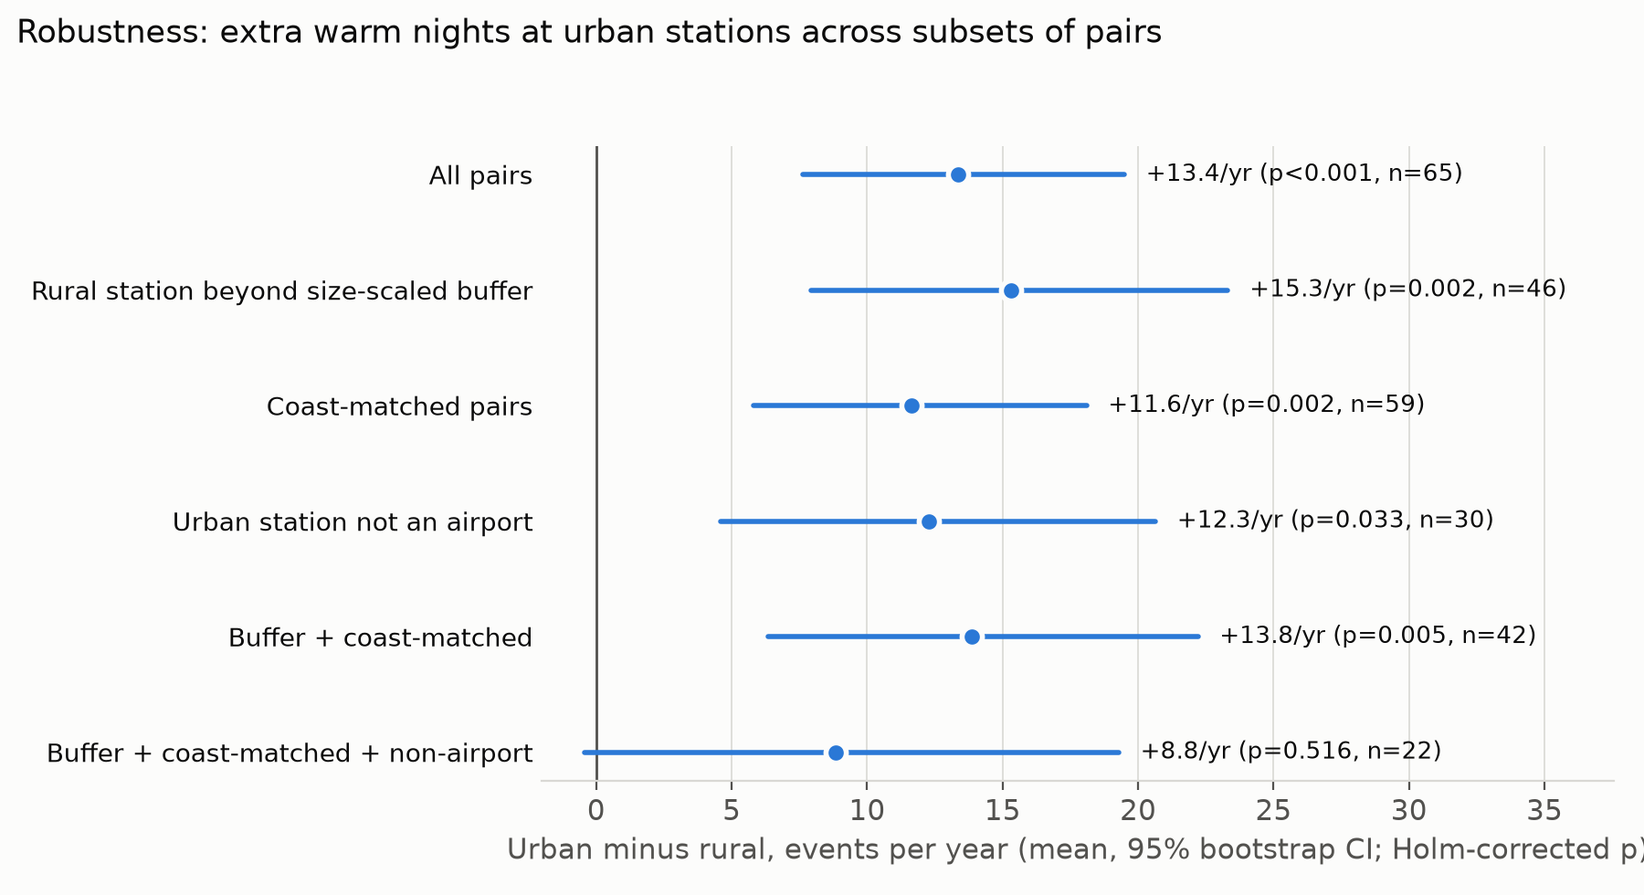
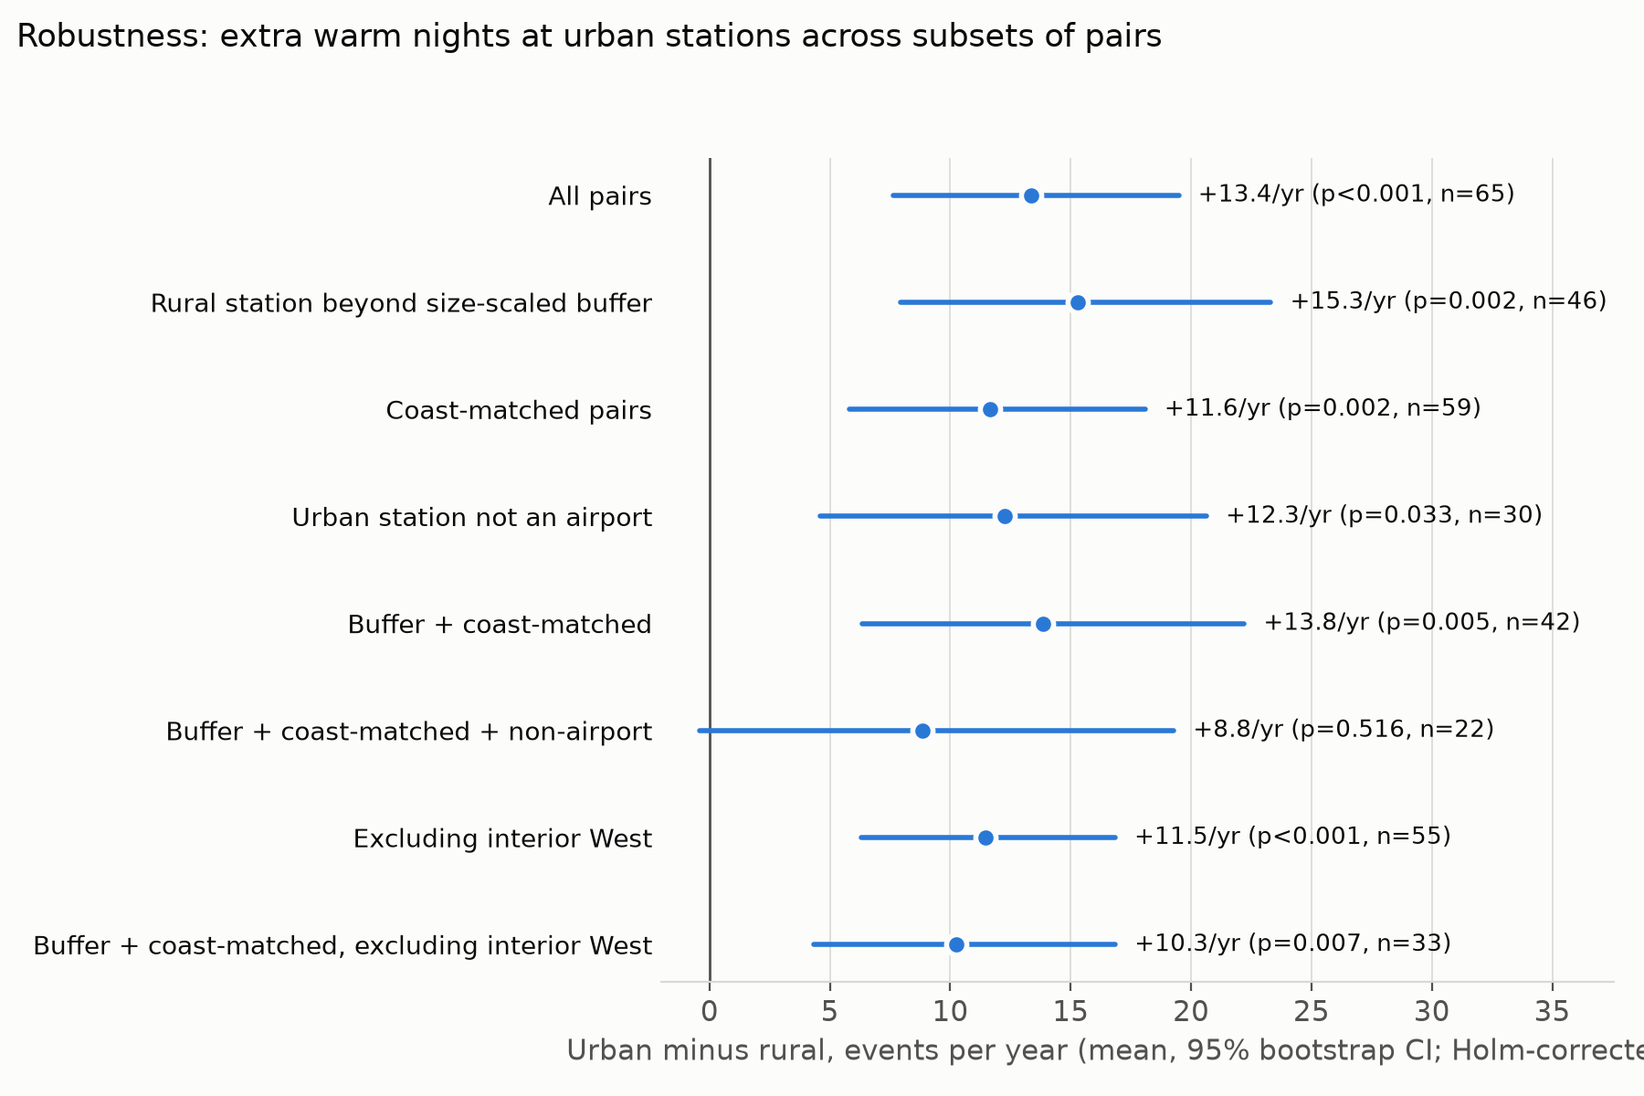
[agent] Add interior-West terrain sensitivity check

diff --git a/ewu/report.py b/ewu/report.py
@@ -10,7 +10,8 @@ import pandas as pd
 ALPHA = 0.05
 LABEL = {"hot_days": "hot days", "warm_nights": "warm nights", "heavy_rain_days": "heavy-rain days", "cold_nights": "cold nights"}
 SUBSETS = ["All pairs", "Rural station beyond size-scaled buffer", "Coast-matched pairs", "Urban station not an airport",
-           "Buffer + coast-matched", "Buffer + coast-matched + non-airport"]
+           "Excluding interior West", "Buffer + coast-matched", "Buffer + coast-matched, excluding interior West",
+           "Buffer + coast-matched + non-airport"]
 
 
 def p_text(p: float) -> str:
@@ -38,7 +39,7 @@ def effect_sentence(r, what: str) -> str:
 
 
 def build(overall: pd.DataFrame, tests: pd.DataFrame, influence: pd.DataFrame, ranking: pd.DataFrame,
-          pairs: pd.DataFrame, meta: dict, top_n: int = 10) -> str:
+          pairs: pd.DataFrame, meta: dict, top_n: int = 10, ranking_no_west: pd.DataFrame | None = None) -> str:
     o = overall.set_index("index")
     t = tests.set_index(["subset", "index"])
     inf = influence.set_index("index")
@@ -68,6 +69,14 @@ def build(overall: pd.DataFrame, tests: pd.DataFrame, influence: pd.DataFrame, r
         f"station's distance from the city (Spearman ρ = {signed(rho, 2)}, {p_text(p_inf)}), so there is "
         f"{'evidence' if contaminated else 'no evidence'} that cities warm their rural partners enough to bias the comparison. "
         f"{n_buf} of {n_pairs} pairs pass the size-scaled buffer.")
+    iw = sub("Excluding interior West", rk)
+    n_iw = int(pairs["interior_west"].sum()) if "interior_west" in pairs else 0
+    if iw is not None and n_iw:
+        findings.append(
+            f"- **Terrain sensitivity.** Excluding the {n_iw} interior-West pairs (mountain and basin terrain, where valley sites "
+            f"pool cold air at night), the effect on {LABEL[rk]} is {signed(iw.mean_diff)}/yr (95% CI {signed(iw.ci_low)} to "
+            f"{signed(iw.ci_high)}; Holm {p_text(iw.holm_p)}; n = {int(iw.n_pairs)}), so the result "
+            f"{'does not depend' if iw.holm_p < ALPHA and iw.mean_diff > 0 else 'depends'} on those pairs.")
     rob = [s for s in SUBSETS[1:] if sub(s, rk) is not None and sub(s, rk).holm_p < ALPHA]
     fail = [s for s in SUBSETS[1:] if sub(s, rk) is not None and sub(s, rk).holm_p >= ALPHA]
     line = f"- **Robustness.** The effect on {LABEL[rk]} stays significant in {len(rob)} of {len(rob) + len(fail)} robustness subsets"
@@ -107,8 +116,21 @@ def build(overall: pd.DataFrame, tests: pd.DataFrame, influence: pd.DataFrame, r
                                            for m, a, b in zip(top["mean_diff"], top["ci_low"], top["ci_high"])],
         "Airport urban station": top["urban_airport"].map({True: "yes", False: "no"}),
     })
-    west = top.merge(pairs[["urban_area", "urban_lon"]], on="urban_area")
-    n_west = int((west.head(5)["urban_lon"] < -104).sum())
+    n_west = int(ranking.head(5)["interior_west"].sum()) if "interior_west" in ranking else 0
+    alt = ""
+    if ranking_no_west is not None and len(ranking_no_west):
+        t4 = ranking_no_west.head(top_n)
+        t4 = pd.DataFrame({
+            "Rank": t4["rank"], "Urban area": t4["urban_area"], "Size": t4["size_group"],
+            f"Extra {LABEL[rk]}/yr (95% CI)": [f"{signed(m, 0)} ({signed(a, 0)} to {signed(b, 0)})"
+                                               for m, a, b in zip(t4["mean_diff"], t4["ci_low"], t4["ci_high"])],
+            "Airport urban station": t4["urban_airport"].map({True: "yes", False: "no"}),
+        })
+        alt = f"""
+**The same ranking without the interior West** (a terrain sensitivity check):
+
+{md_table(t4, "rllrl")}
+"""
 
     # --- page -------------------------------------------------------------------------------------
     return f"""# Results: does urbanization change how often places experience extreme weather?
@@ -155,7 +177,8 @@ A size-scaled buffer (rural station at least max(10 km, half the city's effectiv
 ![Robustness of the {LABEL[rk]} effect across subsets](figures/robustness_{rk}.png)
 
 *Coast-matched: excludes pairs where exactly one station is within {meta['coast_near_km']:.0f} km of the ocean.
-Non-airport: urban station is not at an airport.*
+Non-airport: urban station is not at an airport. Interior West: west of 104°W with no ocean within 100 km of either
+station (mountain and basin terrain).*
 
 ## 5. Where does urbanization add the most {LABEL[rk]}?
 
@@ -167,8 +190,10 @@ Ranking of the {len(ranking)} pairs that pass the buffer and are coast-matched, 
 {md_table(t3, "rllrl")}
 
 **Read with care.** Each row is one pair of stations, so a ranking reflects that pair's specific sites as well as the city.
-{n_west} of the top 5 are in the mountain West, where cold air pooling in valleys at rural sites can widen night-time gaps;
-terrain is not modelled. This ranks where urbanization adds the most {LABEL[rk]} today in this sample; it is not a forecast.
+{n_west} of the top 5 are in the interior West (west of 104°W, more than 100 km from the ocean), where cold air pooling in
+valleys at rural sites can widen night-time gaps. Terrain is not modelled directly, so the ranking is repeated without
+those pairs below. This ranks where urbanization adds the most {LABEL[rk]} today in this sample; it is not a forecast.
+{alt}
 
 ## Methods in brief
 
@@ -181,7 +206,9 @@ terrain is not modelled. This ranks where urbanization adds the most {LABEL[rk]}
 ## Limitations
 
 - Many urban stations are at airports; the hot-day signal depends heavily on them.
-- Terrain (valleys, cold-air pooling) is not modelled; the coast flag uses the ocean only (Great Lakes not flagged).
+- Terrain (valleys, cold-air pooling) is not modelled directly; it is tested only by excluding interior-West pairs.
+  A topographic position index from a digital elevation model would be the next step. The coast flag uses the ocean
+  only (Great Lakes not flagged).
 - {n_pairs} pairs is a sample, not every U.S. city; the strictest robustness subset is small.
 - Ten years is too short to estimate trends: results describe {meta['years']}, not the future.
 

diff --git a/ewu/cli.py b/ewu/cli.py
@@ -28,10 +28,14 @@ DEFAULTS = {
     "hot_pct": 90, "warm_pct": 90, "cold_pct": 10, "heavy_rain_pct": 95, "wet_day_mm": 1.0,
     "seed": 703, "n_boot": 10_000,
     "buffer_min_km": 10.0, "buffer_radius_fraction": 0.5, "coast_near_km": 25.0, "rank_index": "warm_nights", "top_n": 10,
+    "interior_west_lon": -104.0, "interior_west_inland_km": 100.0,
     "pairs": "config/final_pairs.csv", "raw_dir": "data/raw", "reference_dir": "data/reference",
     "manifest": "data_manifest.csv", "results_dir": "results", "docs_dir": "docs",
 }
 PATH_KEYS = ("pairs", "raw_dir", "reference_dir", "manifest", "results_dir", "docs_dir")
+
+
+COAST_SEARCH_KM = 100.0
 
 
 class ConfigError(ValueError):
@@ -94,6 +98,8 @@ def validate(s: dict, stage: str) -> None:
         raise ConfigError(f"rank_index must be one of {list(core.INDICES)}; got {s['rank_index']!r}")
     if s["buffer_min_km"] < 0 or not 0 <= s["buffer_radius_fraction"] <= 5:
         raise ConfigError("buffer_min_km must be >= 0 and buffer_radius_fraction between 0 and 5")
+    if not 0 < s["interior_west_inland_km"] <= COAST_SEARCH_KM:
+        raise ConfigError(f"interior_west_inland_km must be in (0, {COAST_SEARCH_KM:.0f}]")
     if not Path(s["pairs"]).exists():
         raise ConfigError(f"pairs file not found: {s['pairs']}")
 
@@ -153,7 +159,7 @@ def add_site_flags(pair_summary: pd.DataFrame, s: dict) -> pd.DataFrame:
     meta = io.read_station_metadata(ref / "ghcnd-stations.txt", stations)
     areas = io.read_urban_areas(ref / "tl_2020_us_uac20.zip")
     tree = STRtree([a["geom"] for a in areas])
-    coast = {sid: geo.coast_distance_km(m["lat"], m["lon"], globe.is_land) for sid, m in meta.items()}
+    coast = {sid: geo.coast_distance_km(m["lat"], m["lon"], globe.is_land, max_km=COAST_SEARCH_KM) for sid, m in meta.items()}
 
     rows = []
     for p in pair_summary.itertuples():
@@ -175,6 +181,9 @@ def add_site_flags(pair_summary: pd.DataFrame, s: dict) -> pd.DataFrame:
             "urban_coast_km": coast[p.urban_station], "rural_coast_km": coast[p.rural_station],
             "coastal_mismatch": geo.coastal_mismatch(coast[p.urban_station], coast[p.rural_station], s["coast_near_km"]),
             "urban_airport": geo.is_airport(p.urban_station, u["name"]), "rural_airport": geo.is_airport(p.rural_station, r["name"]),
+            "interior_west": geo.is_interior_west(u["lon"], coast[p.urban_station], coast[p.rural_station],
+                                                  s["interior_west_lon"], s["interior_west_inland_km"]),
+            "urban_elev_m": u["elev"], "rural_elev_m": r["elev"],
             "urban_station_name": u["name"], "rural_station_name": r["name"],
             "urban_lat": u["lat"], "urban_lon": u["lon"], "rural_lat": r["lat"], "rural_lon": r["lon"],
         })
@@ -193,6 +202,8 @@ def robustness_and_ranking(pair_summary: pd.DataFrame, pair_years: pd.DataFrame,
         "Urban station not an airport": ~pair_summary["urban_airport"],
         "Buffer + coast-matched": clean,
         "Buffer + coast-matched + non-airport": clean & ~pair_summary["urban_airport"],
+        "Excluding interior West": ~pair_summary["interior_west"],
+        "Buffer + coast-matched, excluding interior West": clean & ~pair_summary["interior_west"],
     }
     tests = stats.subset_tests(pair_summary, subsets, core.INDICES, rng, s["n_boot"])
     io.write_csv(tests, out / "robustness_tests.csv")
@@ -214,6 +225,14 @@ def robustness_and_ranking(pair_summary: pd.DataFrame, pair_years: pd.DataFrame,
     flags = pair_summary[["urban_area", "size_group", "pop", "popden", "urban_airport", "rural_edge_km", "urban_station", "rural_station"]]
     ranked = ranked.merge(flags, on="urban_area", how="left")
     io.write_csv(ranked, out / f"ranking_{s['rank_index']}.csv")
+    flags_iw = pair_summary.set_index("urban_area")["interior_west"]
+    ranked["interior_west"] = ranked["urban_area"].map(flags_iw).astype(bool)
+    io.write_csv(ranked, out / f"ranking_{s['rank_index']}.csv")
+    no_west = ranked[~ranked["interior_west"]].reset_index(drop=True)
+    no_west["rank"] = range(1, len(no_west) + 1)
+    io.write_csv(no_west, out / f"ranking_{s['rank_index']}_excl_interior_west.csv")
+    log.info("interior-West pairs: %d of %d; %d of the top 5 are interior West", int(pair_summary["interior_west"].sum()),
+             len(pair_summary), int(ranked.head(5)["interior_west"].sum()))
     if len(ranked) < s["top_n"]:
         log.warning("only %d pairs eligible for ranking (fewer than top_n=%d)", len(ranked), s["top_n"])
     top = ranked.head(s["top_n"])
@@ -295,7 +314,9 @@ def stage_report(s: dict) -> int:
                                  f"Urban minus rural {label} per year"), figs / f"ranking_{rk}.png")
     meta = {"date": date.today().isoformat(), "commit": git_commit(), "years": years, "rank_index": rk,
             "coverage_threshold": s["coverage_threshold"], "min_good_years": s["min_good_years"], "coast_near_km": s["coast_near_km"]}
-    io.write_text(report.build(overall, tests, influence, ranking, pairs, meta, s["top_n"]), docs / "RESULTS.md")
+    no_west_path = out / f"ranking_{rk}_excl_interior_west.csv"
+    no_west = pd.read_csv(no_west_path) if no_west_path.exists() else None
+    io.write_text(report.build(overall, tests, influence, ranking, pairs, meta, s["top_n"], no_west), docs / "RESULTS.md")
     log.info("wrote %s and %d figures in %s", docs / "RESULTS.md", 5, figs)
     return 0
 

diff --git a/tests/test_geo.py b/tests/test_geo.py
@@ -71,3 +71,10 @@ def test_subset_tests_apply_holm_within_each_subset():
     t = stats.subset_tests(ps, masks, ["warm_nights", "hot_days"], np.random.default_rng(0), n_boot=300)
     assert set(t["subset"]) == {"all", "half"} and (t["holm_p"] >= t["wilcoxon_p"]).all()
     assert t.set_index(["subset", "index"]).loc[("half", "warm_nights"), "n_pairs"] == 10
+
+
+def test_interior_west_needs_west_longitude_and_inland_on_both_stations():
+    assert geo.is_interior_west(-112.0, 100.0, 100.0)            # Salt Lake City-like
+    assert not geo.is_interior_west(-99.0, 100.0, 100.0)         # Kansas: east of 104W
+    assert not geo.is_interior_west(-122.0, 30.0, 100.0)         # coastal California
+    assert not geo.is_interior_west(-104.0, 100.0, 100.0)        # boundary: strictly west

diff --git a/ewu/geo.py b/ewu/geo.py
@@ -90,3 +90,12 @@ def is_airport(station_id: str, name: str) -> bool:
     if station_id in NOT_AIRPORTS:
         return False
     return station_id in CONFIRMED_AIRPORTS or bool(AIRPORT_NAME.search(name.upper()))
+
+
+def is_interior_west(urban_lon: float, urban_coast_km: float, rural_coast_km: float,
+                     lon_max: float = -104.0, inland_km: float = 100.0) -> bool:
+    """Pair in the mountain/basin interior West: west of lon_max with no ocean within inland_km of either station.
+
+    A sensitivity flag for terrain: valley and basin sites there are prone to night-time cold-air pooling.
+    """
+    return urban_lon < lon_max and urban_coast_km >= inland_km and rural_coast_km >= inland_km

diff --git a/tests/test_cli.py b/tests/test_cli.py
@@ -117,6 +117,8 @@ def test_analyze_end_to_end_on_synthetic_pairs(tmp_path, capsys):
     assert (tmp_path / "results" / "run.log").exists()
     assert summary["passes_buffer"].all() and not summary["coastal_mismatch"].any()
     assert summary["urban_airport"].all() and not summary["rural_airport"].any()
+    assert not summary["interior_west"].any()
+    assert (tmp_path / "results" / "ranking_warm_nights_excl_interior_west.csv").exists()
     ranking = pd.read_csv(tmp_path / "results" / "ranking_warm_nights.csv")
     assert len(ranking) == 3 and list(ranking["rank"]) == [1, 2, 3]
     assert cli.main(["--config", str(cfg), "--stage", "report"]) == 0

diff --git a/docs/RESULTS.md b/docs/RESULTS.md
@@ -1,6 +1,6 @@
 # Results: does urbanization change how often places experience extreme weather?
 
-*Generated by `python -m ewu.cli --config config/ewu.json --stage report` on 2026-10-15 from commit `d5f0817`.
+*Generated by `python -m ewu.cli --config config/ewu.json --stage report` on 2026-10-15 from commit `967b64f`.
 Every number on this page is computed from the pipeline's result tables; rerunning the pipeline regenerates it.*
 
 **Design in one line:** 65 pairs of NOAA weather stations (611 station-pair-years, 2015–2024): one inside a Census
@@ -13,7 +13,8 @@ to both, so the difference measures what the city adds.
 - **Hot days.** Urban stations recorded +10.0 hot days per year (95% CI +5.9 to +14.3; Holm p < 0.001; urban higher in 68% of 65 pairs). The effect largely disappears when the urban station is not an airport (+5.8/yr, Holm p = 0.985, n = 30), so much of it is an airport effect.
 - **No clear urban effect** on heavy-rain days or cold nights (Holm p ≥ 0.05).
 - **Urban influence on rural stations.** The gap in warm nights does not grow with the rural station's distance from the city (Spearman ρ = −0.07, p = 0.585), so there is no evidence that cities warm their rural partners enough to bias the comparison. 46 of 65 pairs pass the size-scaled buffer.
-- **Robustness.** The effect on warm nights stays significant in 4 of 5 robustness subsets; in the strictest subset (buffer + coast-matched + non-airport, n = 22) it stays positive (+8.8/yr) but is not significant.
+- **Terrain sensitivity.** Excluding the 10 interior-West pairs (mountain and basin terrain, where valley sites pool cold air at night), the effect on warm nights is +11.5/yr (95% CI +6.3 to +16.8; Holm p < 0.001; n = 55), so the result does not depend on those pairs.
+- **Robustness.** The effect on warm nights stays significant in 6 of 7 robustness subsets; in the strictest subset (buffer + coast-matched + non-airport, n = 22) it stays positive (+8.8/yr) but is not significant.
 - **Largest urban excess of warm nights** among 42 vetted pairs: Spokane, WA, Concord--Walnut Creek, CA, Provo--Orem, UT (see the ranking below).
 
 ## 1. How much more often do cities see extremes?
@@ -53,13 +54,16 @@ A size-scaled buffer (rural station at least max(10 km, half the city's effectiv
 | Rural station beyond size-scaled buffer | 46 | +15.3 (0.002) | +9.0 (0.003) |
 | Coast-matched pairs | 59 | +11.6 (0.002) | +8.7 (< 0.001) |
 | Urban station not an airport | 30 | +12.3 (0.033) | +5.8 (0.985) |
+| Excluding interior West | 55 | +11.5 (< 0.001) | +10.3 (< 0.001) |
 | Buffer + coast-matched | 42 | +13.8 (0.005) | +7.3 (0.017) |
+| Buffer + coast-matched, excluding interior West | 33 | +10.3 (0.007) | +6.8 (0.097) |
 | Buffer + coast-matched + non-airport | 22 | +8.8 (0.516) | +0.1 (1.000) |
 
 ![Robustness of the warm nights effect across subsets](figures/robustness_warm_nights.png)
 
 *Coast-matched: excludes pairs where exactly one station is within 25 km of the ocean.
-Non-airport: urban station is not at an airport.*
+Non-airport: urban station is not at an airport. Interior West: west of 104°W with no ocean within 100 km of either
+station (mountain and basin terrain).*
 
 ## 5. Where does urbanization add the most warm nights?
 
@@ -70,7 +74,7 @@ Ranking of the 42 pairs that pass the buffer and are coast-matched, by the urban
 
 | Rank | Urban area | Size | Extra warm nights/yr (95% CI) | Airport urban station |
 |---:|:---|:---|---:|:---|
-| 1 | Spokane, WA | 250k-1M | +97 (+91 to +103) | yes |
+| 1 | Spokane, WA | 250k-1M | +97 (+91 to +104) | yes |
 | 2 | Concord--Walnut Creek, CA | 250k-1M | +78 (+67 to +87) | yes |
 | 3 | Provo--Orem, UT | 250k-1M | +75 (+72 to +78) | no |
 | 4 | Idaho Falls, ID | 50k-250k | +55 (+49 to +60) | no |
@@ -79,11 +83,28 @@ Ranking of the 42 pairs that pass the buffer and are coast-matched, by the urban
 | 7 | Gastonia, NC | 50k-250k | +32 (+22 to +42) | no |
 | 8 | Lubbock, TX | 250k-1M | +31 (+23 to +39) | yes |
 | 9 | Charlottesville, VA | 50k-250k | +27 (+21 to +33) | yes |
-| 10 | Clinton--Fulton, IA--IL | <50k | +27 (+22 to +31) | no |
+| 10 | Clinton--Fulton, IA--IL | <50k | +27 (+22 to +32) | no |
 
 **Read with care.** Each row is one pair of stations, so a ranking reflects that pair's specific sites as well as the city.
-5 of the top 5 are in the mountain West, where cold air pooling in valleys at rural sites can widen night-time gaps;
-terrain is not modelled. This ranks where urbanization adds the most warm nights today in this sample; it is not a forecast.
+4 of the top 5 are in the interior West (west of 104°W, more than 100 km from the ocean), where cold air pooling in
+valleys at rural sites can widen night-time gaps. Terrain is not modelled directly, so the ranking is repeated without
+those pairs below. This ranks where urbanization adds the most warm nights today in this sample; it is not a forecast.
+
+**The same ranking without the interior West** (a terrain sensitivity check):
+
+| Rank | Urban area | Size | Extra warm nights/yr (95% CI) | Airport urban station |
+|---:|:---|:---|---:|:---|
+| 1 | Concord--Walnut Creek, CA | 250k-1M | +78 (+67 to +87) | yes |
+| 2 | State College, PA | 50k-250k | +36 (+28 to +43) | no |
+| 3 | Gastonia, NC | 50k-250k | +32 (+22 to +42) | no |
+| 4 | Lubbock, TX | 250k-1M | +31 (+23 to +39) | yes |
+| 5 | Charlottesville, VA | 50k-250k | +27 (+21 to +33) | yes |
+| 6 | Clinton--Fulton, IA--IL | <50k | +27 (+22 to +32) | no |
+| 7 | Charlotte, NC--SC | >1M | +24 (+13 to +34) | yes |
+| 8 | Bowling Green, KY | 50k-250k | +24 (+14 to +36) | yes |
+| 9 | Allentown--Bethlehem, PA--NJ | 250k-1M | +18 (+14 to +25) | yes |
+| 10 | Leominster--Fitchburg, MA | 50k-250k | +18 (+13 to +24) | yes |
+
 
 ## Methods in brief
 
@@ -96,7 +117,9 @@ terrain is not modelled. This ranks where urbanization adds the most warm nights
 ## Limitations
 
 - Many urban stations are at airports; the hot-day signal depends heavily on them.
-- Terrain (valleys, cold-air pooling) is not modelled; the coast flag uses the ocean only (Great Lakes not flagged).
+- Terrain (valleys, cold-air pooling) is not modelled directly; it is tested only by excluding interior-West pairs.
+  A topographic position index from a digital elevation model would be the next step. The coast flag uses the ocean
+  only (Great Lakes not flagged).
 - 65 pairs is a sample, not every U.S. city; the strictest robustness subset is small.
 - Ten years is too short to estimate trends: results describe 2015–2024, not the future.
 

diff --git a/README.md b/README.md
@@ -15,6 +15,8 @@ more often than nearby rural stations?
 - They also record about **10 more hot days per year**, but that result depends heavily on airport stations.
 - There is **no clear urban effect on heavy rain** or cold nights, and **no evidence that nearby cities warm the rural
   stations** enough to bias the comparison.
+- The warm-night result **does not depend on mountain-West valley sites**: without the 10 interior-West pairs it is
+  still about +11 per year.
 
 **Full results, figures and the warm-nights ranking: [docs/RESULTS.md](docs/RESULTS.md)** (generated by the pipeline).
 
@@ -35,6 +37,8 @@ more often than nearby rural stations?
   distance outside the urban-area edge is measured from the Census boundaries, and a pair passes a
   size-scaled buffer when that distance is at least max(10 km, half the city's effective radius).
   The urban-influence check tests whether the urban–rural gap grows with that distance.
+- **Terrain sensitivity.** Interior-West pairs (west of 104°W, no ocean within 100 km) are flagged, since valley sites
+  there pool cold air at night; the main test and the ranking are repeated without them.
 - **Other robustness flags.** Coastal mismatch (exactly one station within 25 km of the ocean; ocean mask from
   `global-land-mask`, which treats lakes as land) and airport urban stations. The main test is rerun on each subset.
 - **Ranking.** Pairs passing the buffer and coast-matched are ranked by urban excess of warm nights, with a
@@ -120,8 +124,8 @@ stays positive (+8.8/yr) but is no longer significant.
 
 - Many urban stations sit at airports; the hot-day signal is largely an airport effect.
 - Single-pair rankings are sensitive to the chosen rural station's microclimate. The top of the warm-night
-  ranking is dominated by Intermountain West pairs (Spokane, Provo–Orem, Idaho Falls, Salt Lake City), where cold
-  air pooling in valleys at rural sites can widen the gap; terrain is not modelled.
+  ranking is dominated by interior-West pairs (Spokane, Provo–Orem, Idaho Falls, Salt Lake City), where cold
+  air pooling in valleys at rural sites can widen the gap. Terrain is tested only by excluding those pairs.
 - The coast flag uses ocean only; Great Lakes shores are not flagged.
 - Ten years is too short to estimate trends; results describe 2015–2024, not the future.
 

diff --git a/AGENT_LOG.md b/AGENT_LOG.md
@@ -42,3 +42,15 @@ Agent: Claude Code (Anthropic). Agent-written commits are tagged `[agent]`.
 - **Accepted:** _(fill in)_
 - **Rejected/edited:** _(fill in)_
 - **Open:** docs/ is regenerated output committed on purpose; rerun `--stage report` after any analysis change.
+
+## 2026-10-15 — terrain sensitivity: interior-West flag (branch: feat/terrain-check)
+- **Prompt:** the top of the warm-night ranking is mostly mountain-West valley pairs; test whether conclusions depend
+  on them without new data. Non-goal: no elevation model (would need a new data source; left as future work).
+- **Changed:** `ewu/geo.py` (`is_interior_west`), `ewu/cli.py` (flag, two robustness subsets, ranking without the
+  interior West), `ewu/report.py` (terrain finding, second ranking table), `config/ewu.json`, `README.md`,
+  `tests/test_geo.py`, `tests/test_cli.py`.
+- **Ran:** `python -m pytest -q`; full pipeline on real data. Warm nights without interior-West pairs: +11.5/yr
+  (CI +6.3 to +16.8, Holm p = 0.001, n = 55).
+- **Accepted:** _(fill in)_
+- **Rejected/edited:** _(fill in)_
+- **Open:** a topographic position index from a DEM would measure valley exposure directly.
